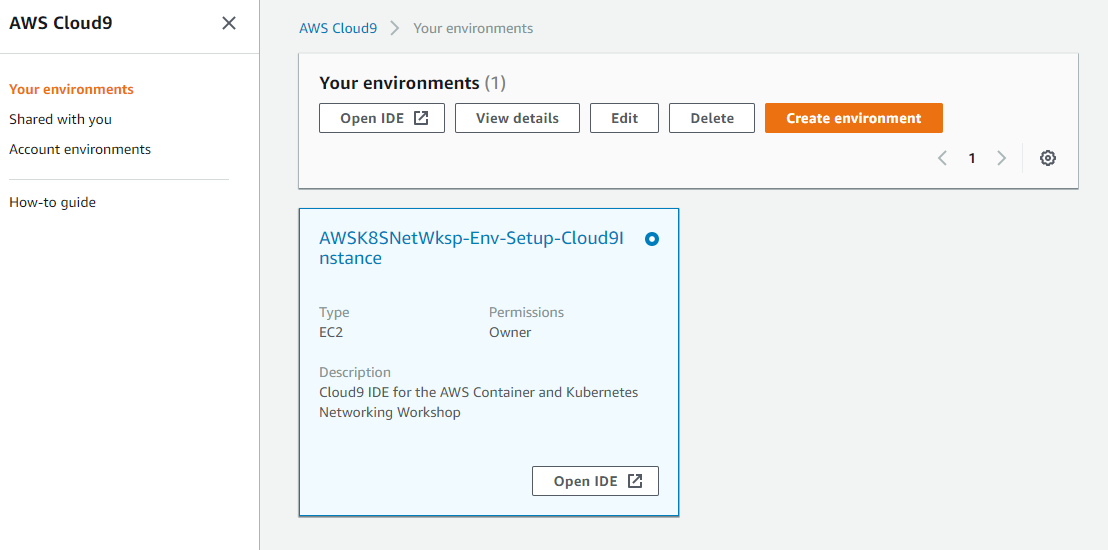
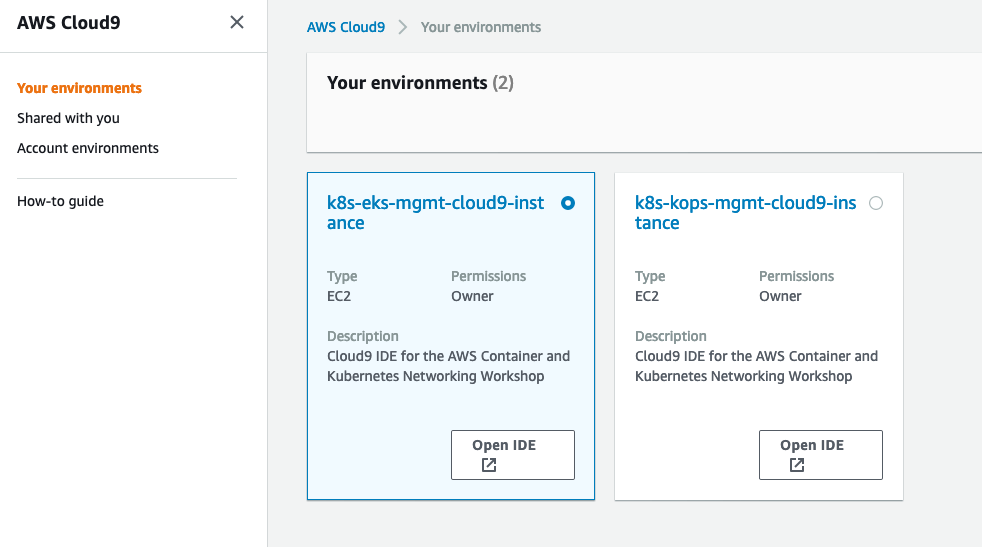
1) Prerequisite was not structured properly, structured it 2) recreate snapshot so that we are not referencing eksworkshop 3.) tried cleaning a bit with regards to ref eksworkshop 4) Added prepare workshop under Module 4. 5) added create kops cluster details under Module 4.

diff --git a/content/module4/prepareworkspace.md b/content/module4/prepareworkspace.md
@@ -1,0 +1,104 @@
+---
+title: "Prepare Workspace"
+date: 2019-11-22T16:54:52-08:00
+weight: 20
+pre: "<b>1. </b>"
+draft: false
+---
+
+{{% notice warning %}}
+Before you begin, verify you are on:**[k8s-kops-mgmt-cloud9-instance](https://console.aws.amazon.com/ec2/v2/home?#Instances:tag:Name=k8s-kops-mgmt-cloud9-instance;sort=desc:launchTime)**
+{{% /notice %}}
+
+# Configure [k8s-kops-mgmt-cloud9-instance](https://console.aws.amazon.com/ec2/v2/home?#Instances:tag:Name=k8s-kops-mgmt-cloud9-instance;sort=desc:launchTime) to create Kops cluster:
+
+#### Create .kube for kops configuration
+```
+mkdir -p $HOME/.kube
+```
+#### Create /home/ec2-user/kops folder to store kops related artifacts
+```
+mkdir -p $HOME/kopsCluster
+```
+
+#### Export instance IAM role:
+```
+echo "export AWS_INSTANCE_IAM_ROLE=$(curl -s http://169.254.169.254/latest/meta-data/iam/security-credentials/)" >> $HOME/.bash_profile
+```
+
+#### Export AWS instance id and ami id:
+```
+echo "export AWS_INSTANCE_ID=$(ec2-metadata  |grep instance-id | awk -F': ' '{print $2}')" >> $HOME/.bash_profile
+echo "export AMI_ID=$(curl -s http://169.254.169.254/latest/meta-data/ami-id)" >> $HOME/.bash_profile
+```
+
+#### Export KUBECONFIG variable used for storing kops cluster configuration:
+```
+echo "export KUBECONFIG=$HOME/.kube/config" >> $HOME/.bash_profile
+```
+#### Source .bash_profile:
+```
+source $HOME/.bash_profile
+```
+#### Export kops cluster state:
+```
+echo "export KOPS_STATE_STORE=s3://amazon-kops-cluster-state-${AWS_ACCOUNT_ID}-${AWS_REGION}" >> $HOME/.bash_profile
+```
+#### Source .bash_profile:
+```
+source $HOME/.bash_profile
+```
+#### Create Amazon S3 bucket:
+* Amazon S3 bucket is used for storing kops cluster state:
+* Note: Amazon S3 requires --create-bucket-configuration LocationConstraint=<region> for regions other than us-east-1:
+```
+aws s3api create-bucket --bucket amazon-kops-cluster-state-${AWS_ACCOUNT_ID}-${AWS_REGION} --region ${AWS_REGION} --create-bucket-configuration LocationConstraint=${AWS_REGION}
+```
+* Note: it is strongly recommend versioning your S3 bucket in case you ever need to revert or recover a previous state store:
+```
+aws s3api put-bucket-versioning --bucket amazon-kops-cluster-state-${AWS_ACCOUNT_ID}-${AWS_REGION} --versioning-configuration Status=Enabled
+```
+
+<!--
+# create /home/ec2-user/bin for packages to install
+mkdir -p /home/ec2-user/bin
+# change ownership for /home/ec2-user/
+# chown ec2-user:ec2-user -R /home/ec2-user/
+# change pwd to /home/ec2-user/bin
+cd /home/ec2-user/bin
+echo "# net410-workshop specific environment variables:" >> /home/ec2-user/.bash_profile
+# set GOPATH env variable: https://github.com/golang/go/wiki/SettingGOPATH#bash
+echo "export GOPATH=/home/ec2-user/go" >> /home/ec2-user/.bash_profile
+
+# export AWS account id, used to create unique s3 bucket:
+export AWS_ACCOUNT_ID=$(curl -s http://169.254.169.254/latest/dynamic/instance-identity/document |grep accountId |awk -F': ' '{print $2}')
+echo "export AWS_ACCOUNT_ID=$(sed -e 's/"//g' -e 's/,$//' <<< "$AWS_ACCOUNT_ID")" >> /home/ec2-user/.bash_profile
+# export default AWS region ami is instantiated in:
+echo "export AWS_DEFAULT_REGION=$(curl -s http://169.254.169.254/latest/dynamic/instance-identity/document/ | grep region | awk -F' : ' '{print $2}' | sed 's/"//g' | sed 's/,//g')" >> /home/ec2-user/.bash_profile
+# export public key that was assigned to ec2 instance:
+# this key is used to create kops cluster:
+export PUBKEY=$(ec2-metadata |grep ssh-rsa)
+export PUBKEYNAME=$(ec2-metadata |grep keyname | awk -F':' '{print $2}')
+echo "export PUBKEYNAME=$(ec2-metadata |grep keyname | awk -F':' '{print $2}')" >> /home/ec2-user/.bash_profile
+echo $PUBKEY > /home/ec2-user/.ssh/$PUBKEYNAME.pub
+# configure default region for AWS CLI:
+# it does not require access and secret, it uses the token.
+echo "[default]" >> /home/ec2-user/.aws/config
+echo "region = ${AWS_DEFAULT_REGION}" >> /home/ec2-user/.aws/config
+# download kops and make it executable:
+wget -O kops https://github.com/kubernetes/kops/releases/download/$(curl -s https://api.github.com/repos/kubernetes/kops/releases/latest | grep tag_name | cut -d '"' -f 4)/kops-linux-amd64
+chmod +x kops
+# download kubectl and make it executable:
+wget -O kubectl https://storage.googleapis.com/kubernetes-release/release/$(curl -s https://storage.googleapis.com/kubernetes-release/release/stable.txt)/bin/linux/amd64/kubectl
+chmod +x kubectl
+# retrieve kops cluster configuration file from s3
+wget https://s3-${AWS_DEFAULT_REGION}.amazonaws.com/net410-workshop-${AWS_DEFAULT_REGION}/kops/net410-kops-cluster-${AWS_DEFAULT_REGION}.yaml --output-document=/home/ec2-user/kopsCluster/net410-kops-cluster-${AWS_DEFAULT_REGION}.yaml
+# insert public key for kops cluster creation:
+sed -i 's*  publicKey:*  publicKey: "'"$PUBKEY"'"*g' /home/ec2-user/kopsCluster/net410-kops-cluster-${AWS_DEFAULT_REGION}.yaml
+# create kops cluster:
+kops create -f /home/ec2-user/kopsCluster/net410-kops-cluster-${AWS_DEFAULT_REGION}.yaml
+# deploy/update cluster:
+kops update cluster net410-kops-cluster.k8s.local --yes
+# change ownership for /home/ec2-user/
+chown -R ec2-user:ec2-user /home/ec2-user/
+-->

diff --git a/content/prerequisites/kopscluster/kopsworkspaceiam.md b/content/prerequisites/kopscluster/kopsworkspaceiam.md
@@ -10,7 +10,7 @@ Cloud9 normally manages IAM credentials dynamically. This isn't currently compat
 the EKS IAM authentication, so we will disable it and rely on the IAM role instead.
 {{% /notice %}}
 
-- Return to your workspace and click the sprocket, or launch a new tab to open the Preferences tab
+- Return to your [cloud9 workspace](https://eu-west-1.console.aws.amazon.com/cloud9/home#) and click the sprocket, or launch a new tab to open the Preferences tab
 - Select **AWS SETTINGS**
 - Turn off **AWS managed temporary credentials**
 - Close the Preferences tab
@@ -22,9 +22,14 @@ any existing credentials file:
 rm -vf ${HOME}/.aws/credentials
 ```
 
+Install JQ and envsubst:
+```
+sudo yum -y install jq gettext
+```
+
 We should configure our aws cli with our current region as default:
 ```
-export ACCOUNT_ID=$(aws sts get-caller-identity --output text --query Account)
+export AWS_ACCOUNT_ID=$(aws sts get-caller-identity --output text --query Account)
 export AWS_REGION=$(curl -s 169.254.169.254/latest/dynamic/instance-identity/document | jq -r '.region')
 
 echo "export ACCOUNT_ID=${ACCOUNT_ID}" >> ~/.bash_profile
@@ -52,7 +57,7 @@ aws iam get-instance-profile --instance-profile-name $INSTANCE_PROFILE_NAME --qu
 
 The output assumed-role name should contain:
 ```
-eksworkshop-admin
+amazonk8snetworkshop-admin
 ```
 
 #### VALID
@@ -62,8 +67,8 @@ If the _Arn_ contains the role name from above and an Instance ID, you may proce
 ```output
 {
     "Account": "123456789012",
-    "UserId": "AROA1SAMPLEAWSIAMROLE:i-01234567890abcdef",
-    "Arn": "arn:aws:sts::123456789012:assumed-role/eksworkshop-admin/i-01234567890abcdef"
+    "UserId": "AROAYD7CFQJWZSIEXYJCC:i-0668085e67f9144a1",
+    "Arn": "arn:aws:sts::123456789012:assumed-role/amazonk8snetworkshop-admin/i-0668085e67f9144a1"
 }
 ```
 

diff --git a/content/prerequisites/createworkspace/_index.md b/content/prerequisites/createworkspace/_index.md
@@ -1,13 +1,13 @@
 ---
-title: "Cloud9 workspace"
-chapter: false
+title: "Create Cloud9 Workspace"
+date: 2019-11-23T22:33:47-08:00
 weight: 5
+pre: "<b>1. </b>"
 draft: false
 ---
 
-
 {{% notice info %}}
-Before you deploy the CloudFormation template, feel free to view it <a href="https://github.com/aws-samples/amazon-eks-and-amazon-ec2-k8s-container-networking-workshops/blob/master/templates/awsk8snetworking-cluster-mgmt-cloud9.yaml" target="_blank">here</a href>.
+Before you deploy the CloudFormation template, feel free to view it [here](https://github.com/aws-samples/amazon-eks-and-amazon-ec2-k8s-container-networking-workshops/blob/master/templates/awsk8snetworking-cluster-mgmt-cloud9.yaml)
 {{% /notice %}}
 
 <!---
@@ -33,8 +33,9 @@ Cloud9 requires third-party-cookies. You can whitelist the [specific domains]( h
 
 
 - Customize the environment by closing the **welcome tab**
-and **lower work area**, and opening a new **terminal** tab in the main work area:
-![c9before](/images/c9before.png)
+and **lower work area**: and opening a new **terminal** tab in the main work area:
+![c9before](/images/cloud9before.png)
+![c9newterminal](/images/cloud9newterminal.png)
 
 - Your workspace should now look like this:
-![c9after](/images/c9after.png)
+![c9after](/images/cloud9after.png)

diff --git a/content/module4/kopsclusterinformation.md b/content/module4/kopsclusterinformation.md
@@ -1,0 +1,63 @@
+---
+title: "Kops Cluster Information"
+date: 2019-11-22T16:54:52-08:00
+weight: 22
+pre: "<b>2. </b>"
+draft: false
+---
+
+### Cluster information:
+
+1. Display cluster information:
+```
+kubectl cluster-info
+```
+Expected output:
+```
+something like this
+```
+
+2. Get cluster details: cluster and instance group:
+```
+kops get cluster net410-kops-cluster.k8s.local
+```
+Expected output:
+```
+something like this
+```
+
+3. Validate cluster state:
+```
+kops validate cluster net410-kops-cluster.k8s.local
+```
+Expected output:
+```
+something like this
+```
+
+4. View/Verify cluster node information. You can use option: '-o wide' to see IP address and more:
+```
+kubectl get nodes
+kubectl get nodes -o wide
+```
+Expected output:
+something like this
+
+5. View/Verify cluster pod information. You can use option: '-o wide' to see IP address and more. Since there is application is not deployed yet, you won't see any pods running in default name space:
+```
+kubectl get pods
+kubectl get pods -o wide
+```
+Expected output:
+```
+something like this
+```
+
+6. For cluster operations, it creates pods in kube-system namespace:
+```
+kubectl get pods -o wide -n kube-system
+```
+Expected output:
+```
+something like this
+```

diff --git a/content/prerequisites/ekscluster/eksworkspaceiam.md b/content/prerequisites/ekscluster/eksworkspaceiam.md
@@ -24,7 +24,7 @@ rm -vf ${HOME}/.aws/credentials
 
 We should configure our aws cli with our current region as default:
 ```
-export ACCOUNT_ID=$(aws sts get-caller-identity --output text --query Account)
+export AWS_ACCOUNT_ID=$(aws sts get-caller-identity --output text --query Account)
 export AWS_REGION=$(curl -s 169.254.169.254/latest/dynamic/instance-identity/document | jq -r '.region')
 
 echo "export ACCOUNT_ID=${ACCOUNT_ID}" >> ~/.bash_profile
@@ -52,7 +52,7 @@ aws iam get-instance-profile --instance-profile-name $INSTANCE_PROFILE_NAME --qu
 
 The output assumed-role name should contain:
 ```
-eksworkshop-admin
+amazonk8snetworkshop-admin
 ```
 
 #### VALID
@@ -62,8 +62,8 @@ If the _Arn_ contains the role name from above and an Instance ID, you may proce
 ```output
 {
     "Account": "123456789012",
-    "UserId": "AROA1SAMPLEAWSIAMROLE:i-01234567890abcdef",
-    "Arn": "arn:aws:sts::123456789012:assumed-role/eksworkshop-admin/i-01234567890abcdef"
+    "UserId": "AROAYD7CFQJWZSIEXYJCC:i-083b109f48f561637",
+    "Arn": "arn:aws:sts::123456789012:assumed-role/amazonk8snetworkshop-admin/i-083b109f48f561637"
 }
 ```
 

diff --git a/content/module4/createkopscluster.md b/content/module4/createkopscluster.md
@@ -1,7 +1,33 @@
 ---
 title: "Create Kubernetes Cluster using Kops"
 date: 2019-11-22T16:54:52-08:00
-weight: 10
+weight: 21
 pre: "<b>1. </b>"
 draft: false
 ---
+
+{{% notice warning %}}
+Before you begin, verify you are on:**[k8s-kops-mgmt-cloud9-instance](https://console.aws.amazon.com/ec2/v2/home?#Instances:tag:Name=k8s-kops-mgmt-cloud9-instance;sort=desc:launchTime)**
+{{% /notice %}}
+
+### Create cluster:
+
+1. Create a cluster in public subnet with one master node an two worker nodes across two availability zones
+```
+kops create cluster --name=kops-cluster.k8s.local --master-count=1 --master-size=t2.small --node-count=1 --node-size=t2.small --network-cidr=10.0.0.0/16 --zones=eu-west-1a,eu-west-1b,eu-west-1c --ssh-public-key=~/.ssh/id_rsa.pub --networking=kubenet
+```
+
+2. Verify cluster got created or not:
+```
+kops get cluster
+```
+
+3. Once cluster is created, deploy/update cluster:
+
+```
+kops update cluster kops-cluster.k8s.local --yes
+```
+
+{{% notice info %}}
+**Launching cluster and all the dependencies will take approximately 10 minutes**
+{{% /notice %}}

diff --git a/content/module4/_index.md b/content/module4/_index.md
@@ -11,3 +11,16 @@ pre = "<b>4. </b>"
 # Introduction
 
 [Kops](https://github.com/kubernetes/kops/blob/master/README.md), short for Kubernetes Operations, is a set of tools for installing, operating, and deleting Kubernetes clusters from the command line. A rolling upgrade of an older version of Kubernetes to a new version can also be performed. It also manages the cluster add-ons. It is supported on AWS and is another widely used tool to create Kubernetes cluster on AWS
+
+# Objective:
+
+<div style="text-align: left">Dive deep into networking construct of kubernetes cluster on Amazon EC2 created using Kops. In this module, we will:</div>
+
+* Create kubernetes cluster using Kops
+* Deploy application across the cluster
+* Understand packet flow for Pod-to-Pod communication
+* Understand concepts and limitations
+
+{{% notice warning %}}
+For this module, you should be on: **[k8s-kops-mgmt-cloud9-instance](https://console.aws.amazon.com/ec2/v2/home?#Instances:tag:Name=k8s-kops-mgmt-cloud9-instance;sort=desc:launchTime)**
+{{% /notice %}}

diff --git a/content/prerequisites/createworkspace/iamrole.md b/content/prerequisites/createworkspace/iamrole.md
@@ -1,0 +1,17 @@
+---
+title: "Create an IAM role for your Workspaces"
+chapter: false
+weight: 10
+draft: false
+pre: "<b>1. </b>"
+---
+
+1. Follow [this deep link to create an IAM role with Administrator access.](https://console.aws.amazon.com/iam/home#/roles$new?step=review&commonUseCase=EC2%2BEC2&selectedUseCase=EC2&policies=arn:aws:iam::aws:policy%2FAdministratorAccess)
+2. Confirm that **AWS service** and **EC2** are selected, then click **Next** to view permissions.
+![iamstart](/images/iamstart.png)
+3. Confirm that **AdministratorAccess** is checked, then click **Next: Tags** to assign tags.
+![iamselectpermission](/images/iamselectpermission.png)
+4. Take the defaults, and click **Next: Review** to review.
+![iamreview](/images/iamreview.png)
+5. Enter **amazonk8snetworkshop-admin** for the Name, and click **Create role**.
+![createrole](/images/iamrole.png)

diff --git a/content/prerequisites/ekscluster/eksec2instance.md b/content/prerequisites/ekscluster/eksec2instance.md
@@ -6,7 +6,7 @@ pre: "<b>1. </b>"
 ---
 
 1. Follow [this deep link to find your Cloud9 EC2 instance](https://console.aws.amazon.com/ec2/v2/home?#Instances:tag:Name=k8s-eks-mgmt-cloud9-instance;sort=desc:launchTime)
-1. Select the instance, then choose **Actions / Instance Settings / Attach/Replace IAM Role**
-![c9instancerole](/images/c9instancerole.png)
-1. Choose **eksworkshop-admin** from the **IAM Role** drop down, and select **Apply**
-![c9attachrole](/images/c9attachrole.png)
+2. Select the instance, then choose **Actions / Instance Settings / Attach/Replace IAM Role**
+![c9instancerole](/images/cloud9instancerole.png)
+3. Choose **eksworkshop-admin** from the **IAM Role** drop down, and select **Apply**
+![c9attachrole](/images/cloud9attachrole.png)

diff --git a/content/prerequisites/kopscluster/kopsec2instance.md b/content/prerequisites/kopscluster/kopsec2instance.md
@@ -18,6 +18,6 @@ We have already created a new IAM role, let's attach newly created IAM role to y
 
 1. Follow [this deep link to find your Cloud9 EC2 instance](https://console.aws.amazon.com/ec2/v2/home?#Instances:tag:Name=k8s-kops-mgmt-cloud9-instance;sort=desc:launchTime)
 1. Select the instance, then choose **Actions / Instance Settings / Attach/Replace IAM Role**
-![c9instancerole](/images/c9instancerole.png)
+![c9instancerole](/images/cloud9kopsinstancerole.png)
 1. Choose **eksworkshop-admin** from the **IAM Role** drop down, and select **Apply**
-![c9attachrole](/images/c9attachrole.png)
+![c9attachrole](/images/cloud9kopsattachrole.png)

diff --git a/content/prerequisites/_index.md b/content/prerequisites/_index.md
@@ -1,7 +1,7 @@
 ---
 title: "Prerequisites"
 chapter: true
-weight: 10
+weight: 5
 pre: "<b>0. </b>"
 ---
 
@@ -15,4 +15,4 @@ Follow one of the following depending on whether you are...
 {{< /tabs >}}
 
 
-Once you have completed with either setup, continue with [**Create a Workspace**](/prerequisites/workspace/)
+Once you have completed with either setup, continue with [**Create a Workspace**](/prerequisites/createworkspace/)

diff --git a/content/prerequisites/aws_event/_index.md b/content/prerequisites/aws_event/_index.md
@@ -10,7 +10,7 @@ weight: 12
 
 {{% notice warning %}}
 Only complete this section if you are at an AWS hosted event (such as re:Invent,
-Kubecon, Immersion Day, or any other event hosted by an AWS employee). If you 
+Kubecon, Immersion Day, or any other event hosted by an AWS employee). If you
 are running the workshop on your own, go to [start the workshop on your own](../self_paced/).
 {{% /notice %}}
 
